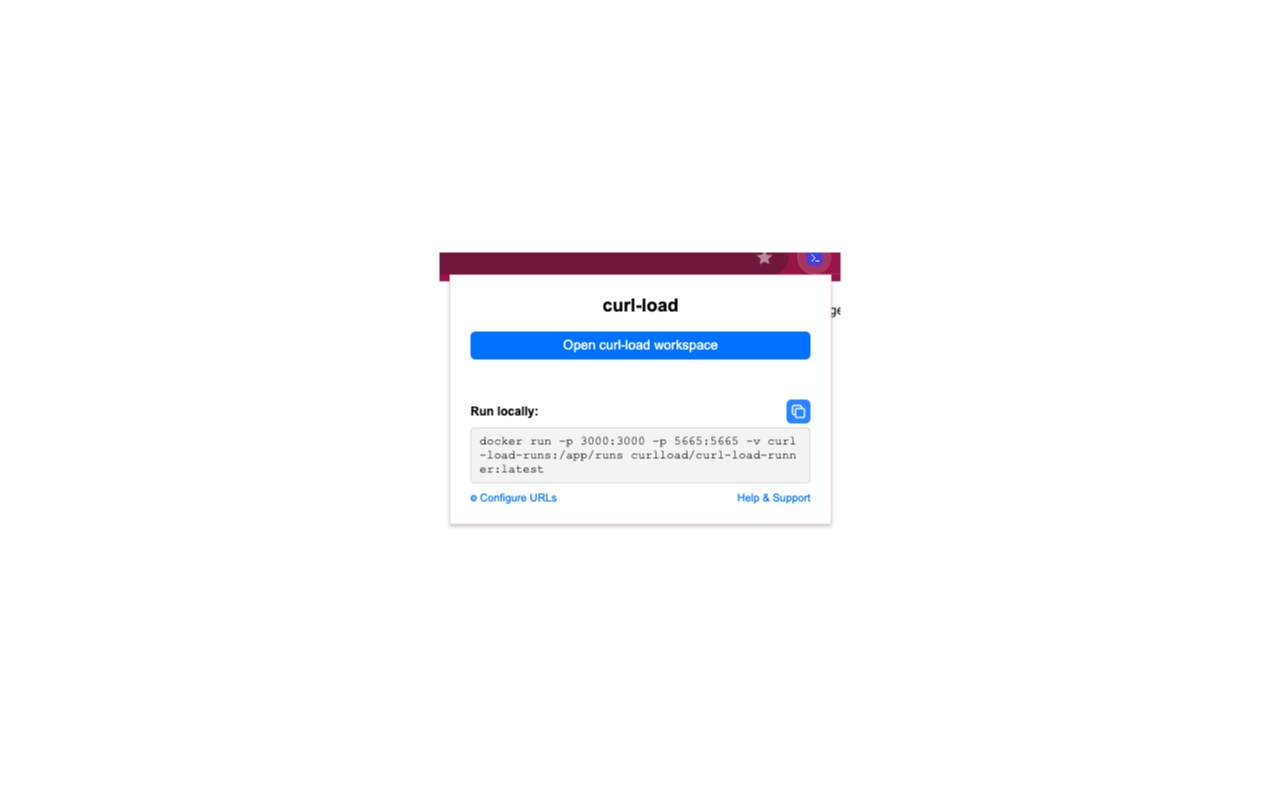
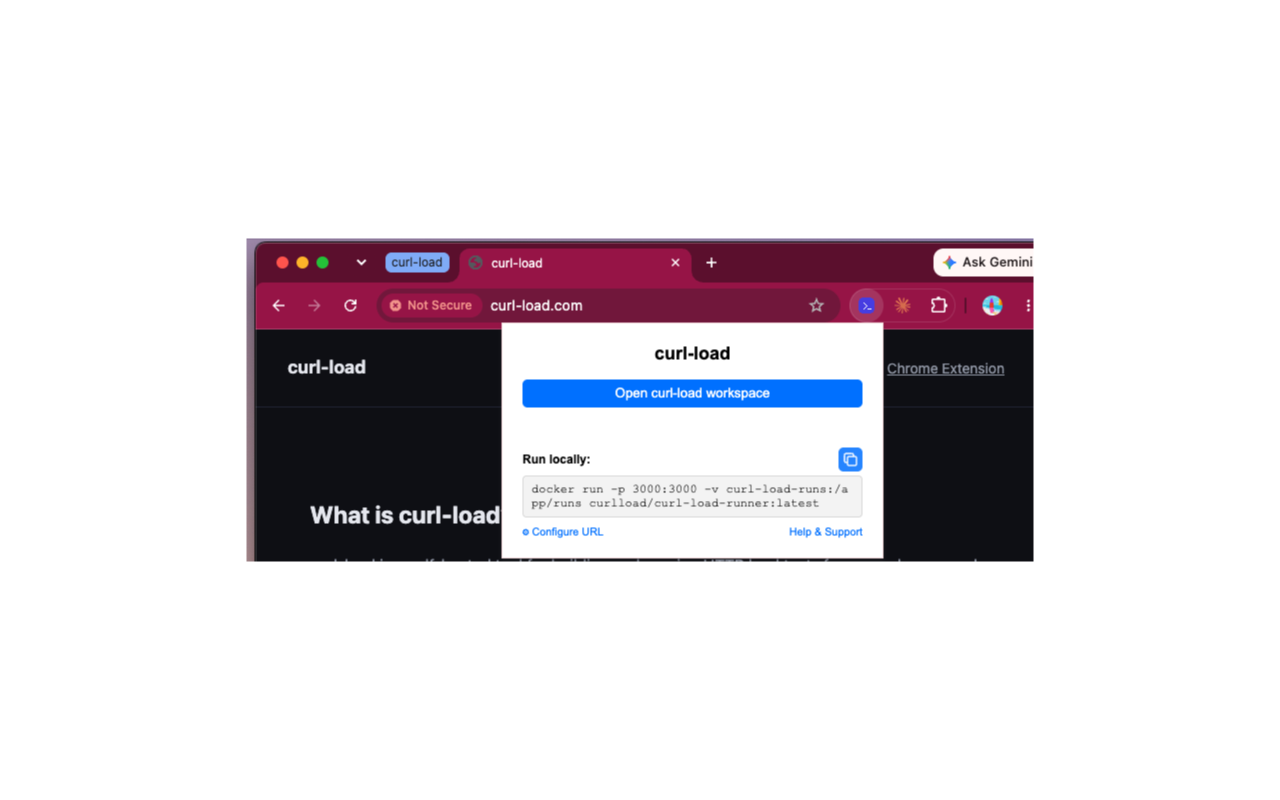
first commit

Changed region(s): [[0.1875, 0.2812, 0.8125, 0.7188]]

diff --git a/index.html b/index.html
@@ -128,6 +128,15 @@
     </ul>
     <img class="screenshot" src="/assets/screenshots/dashboard-1280x800.png" alt="curl-load Dashboard with a quick test form and past runs panel">
 
+    <h3>Powered by k6</h3>
+    <p>
+      Both the Workbench and the Dashboard hand your test off to <a href="https://k6.io" target="_blank" rel="noopener">k6</a>
+      to actually run it. While a test is in progress, curl-load links out to k6's own live
+      dashboard for real-time metrics — request rate, duration, virtual users, and transfer
+      rate — and every run's results are backed by k6's output.
+    </p>
+    <img class="screenshot" src="/assets/screenshots/k6-1280x800.png" alt="k6 live dashboard showing HTTP request rate, duration, VUs, and transfer rate for a running test">
+
     <h2>Chrome Extension</h2>
     <p>
       The <strong>Curl Load Workspace Launcher</strong> is a one-click shortcut that opens
